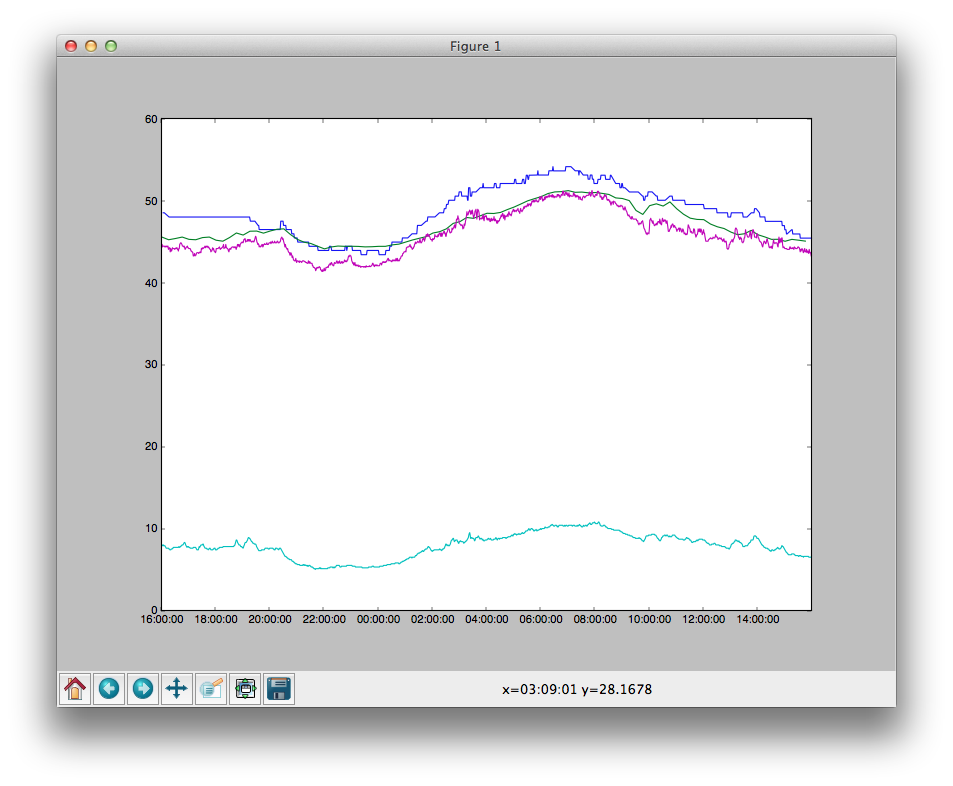
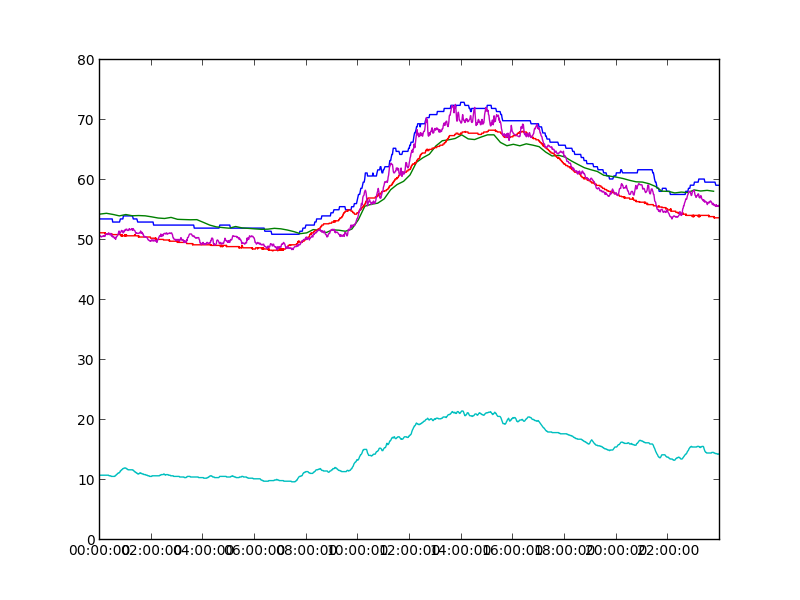
* change example to correctly plot timezones

diff --git a/python/doc/resources/plot_oat_tags.py b/python/doc/resources/plot_oat_tags.py
@@ -6,7 +6,9 @@ locating the streams using a metadata query.
 
 from smap.archiver.client import SmapClient
 from smap.contrib import dtutil
+
 from matplotlib import pyplot
+from matplotlib import dates
 
 # make a client
 c = SmapClient("http://www.openbms.org/backend")
@@ -19,12 +21,6 @@ end   = dtutil.dt2ts(dtutil.strptime_tz("1-2-2013", "%m-%d-%Y"))
 tags = c.tags("Metadata/Extra/Type = 'oat'")
 uuids, data = c.data("Metadata/Extra/Type = 'oat'", start, end)
 
-# pylab timestamps are floating point days since year 1; dtutil knows
-# how to convert
-def convert_time_vector(tvec):
-  return map(lambda t: dtutil.ts2pylabts(t, tzstr='America/Los_Angeles'), 
-             tvec / 1000)
-
 # make a dict mapping uuids to data vectors
 data_map = dict(zip(uuids, data))
 
@@ -34,8 +30,10 @@ for timeseries in tags:
   # since we have the tags, we can add some metadata
   label = "%s (%s)" % (timeseries['Metadata/SourceName'],
                        timeseries['Properties/UnitofMeasure'])
-  pyplot.plot_date(convert_time_vector(d[:, 0]), d[:, 1], '-', 
-                   label=label)
+  # we can plot all of the series in their appropriate time zones
+  pyplot.plot_date(dates.epoch2num(d[:, 0] / 1000), d[:, 1], '-', 
+                   label=label,
+                   tz=timeseries['Properties/Timezone'])
 
 pyplot.legend(loc="lower center")
 pyplot.show()

diff --git a/python/doc/resources/plot_oat.py b/python/doc/resources/plot_oat.py
@@ -5,14 +5,16 @@
 
 from smap.archiver.client import SmapClient
 from smap.contrib import dtutil
+
 from matplotlib import pyplot
+from matplotlib import dates
 
 # make a client
 c = SmapClient("http://www.openbms.org/backend")
 
 # start and end values are Unix timestamps
-start = dtutil.dt2ts(dtutil.strptime_tz("1-1-2013", "%m-%d-%Y"))
-end   = dtutil.dt2ts(dtutil.strptime_tz("1-2-2013", "%m-%d-%Y"))
+start = dtutil.dt2ts(dtutil.strptime_tz("3-1-2013", "%m-%d-%Y"))
+end   = dtutil.dt2ts(dtutil.strptime_tz("3-2-2013", "%m-%d-%Y"))
 
 # hard-code the UUIDs we want to download
 oat = [
@@ -26,14 +28,10 @@ oat = [
 # perform the download
 data = c.data_uuid(oat, start, end)
 
-# pylab timestamps are floating point days since year 1; dtutil knows
-# how to convert
-def convert_time_vector(tvec):
-  return map(lambda t: dtutil.ts2pylabts(t, tzstr='America/Los_Angeles'), 
-             tvec / 1000)
-
 # plot all the data
+#  use the epoch2num to convert to pylab date formats
 for d in data:
-  pyplot.plot_date(convert_time_vector(d[:, 0]), d[:, 1], '-')
+  pyplot.plot_date(dates.epoch2num(d[:, 0] / 1000), d[:, 1], '-',
+                   tz='America/Los_Angeles')
 
 pyplot.show()

diff --git a/python/doc/python_access.rst b/python/doc/python_access.rst
@@ -71,19 +71,16 @@ Plotting this data
 
 Making a time-series plot in :py:mod:`matplotlib` might be the next
 thing you want to do.  It expects a slightly different date format
-than sMAP uses; :py:mod:`smap.contrib.dtutil` contains the right
+than sMAP uses; :py:mod:`matplotlib.dates` contains the right
 conversion utilities.
 
 Continuing the previous example::
 
-  from matplotlib import pyplot
-
-  def convert_time_vector(tvec):
-    return map(lambda t: dtutil.ts2pylabts(t, tzstr='America/Los_Angeles'), 
-               tvec / 1000)
+  from matplotlib import pyplot, dates
 
   for d in data:
-    pyplot.plot_date(convert_time_vector(d[:, 0]), d[:, 1], '-')
+    pyplot.plot_date(dates.epoch2num(d[:, 0] / 1000), d[:, 1], '-',
+                     tz='America/Los_Angeles')
 
   pyplot.show()
 
